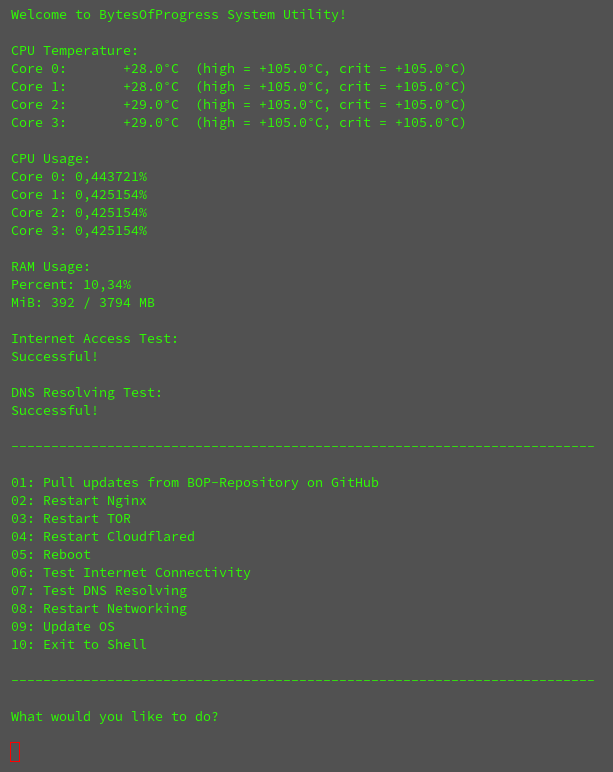
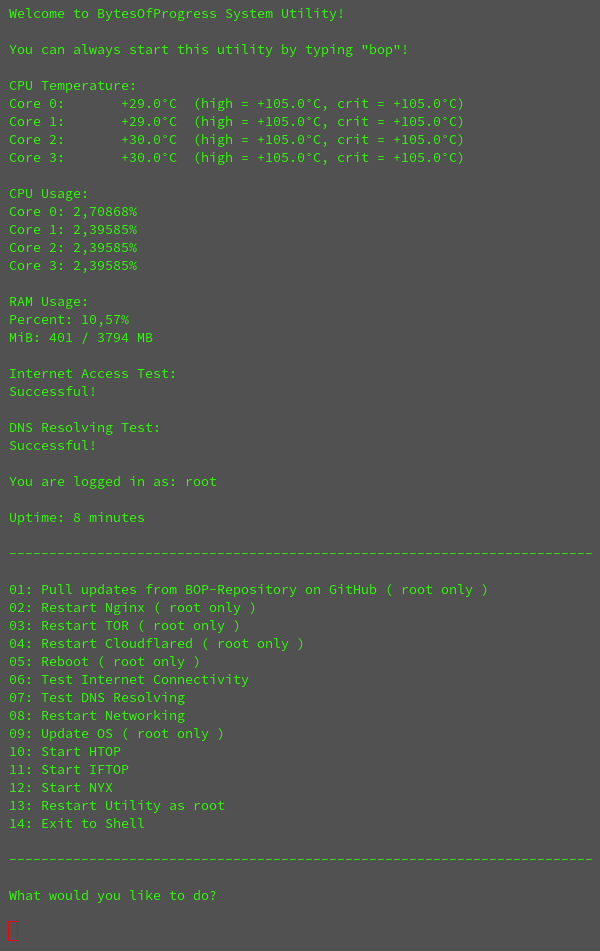
updated

diff --git a/html/blog/posts/2024/server-maintenance-script/server-maintenance-script.html b/html/blog/posts/2024/server-maintenance-script/server-maintenance-script.html
@@ -77,8 +77,13 @@
 
   echo
 
-  sleep 1
+  sleep 0.5
 
+  echo 'You can always start this utility by typing "bop"!'
+
+  echo
+
+  sleep 1
   #------------------------------------------------------------------------------
 
   echo 'CPU Temperature:'
@@ -122,21 +127,37 @@
 
   #------------------------------------------------------------------------------
 
+  echo "You are logged in as: $(whoami)"
+
+  echo
+
+  #------------------------------------------------------------------------------
+
+  echo "Uptime: $(uptime -p | sed 's/up //')"
+  echo
+
+  #------------------------------------------------------------------------------
+
   echo '-------------------------------------------------------------------------'
   echo
 
   #------------------------------------------------------------------------------
 
-  echo '01: Pull updates from BOP-Repository on GitHub'
-  echo '02: Restart Nginx'
-  echo '03: Restart TOR'
-  echo '04: Restart Cloudflared'
-  echo '05: Reboot'
+  echo '01: Pull updates from BOP-Repository on GitHub ( root only )'
+  echo '02: Restart Nginx ( root only )'
+  echo '03: Restart TOR ( root only )'
+  echo '04: Restart Cloudflared ( root only )'
+  echo '05: Reboot ( root only )'
   echo '06: Test Internet Connectivity'
   echo '07: Test DNS Resolving'
   echo '08: Restart Networking'
-  echo '09: Update OS'
-  echo '10: Exit to Shell'
+  echo '09: Update OS ( root only )'
+  echo '10: Start HTOP'
+  echo '11: Start IFTOP'
+  echo '12: Start NYX'
+
+  echo '13: Restart Utility as root'
+  echo '14: Exit to Shell'
 
   echo
   echo '-------------------------------------------------------------------------'
@@ -176,6 +197,19 @@
       echo 'Starting Update' && apt update && apt full-upgrade -y && apt autoremove -y && sleep 3 && bash /var/www/maintenance/BOP-system-util.sh
 
   elif [ "$action" = 10 ]; then
+      htop && bash /var/www/maintenance/BOP-system-util.sh
+
+  elif [ "$action" = 11 ]; then
+      iftop && bash /var/www/maintenance/BOP-system-util.sh
+
+  elif [ "$action" = 12 ]; then
+      nyx && bash /var/www/maintenance/BOP-system-util.sh
+
+
+  elif [ "$action" = 13 ]; then
+    su -c "/bin/bash /var/www/maintenance/BOP-system-util.sh"
+
+  elif [ "$action" = 14 ]; then
       bash
 
   else
